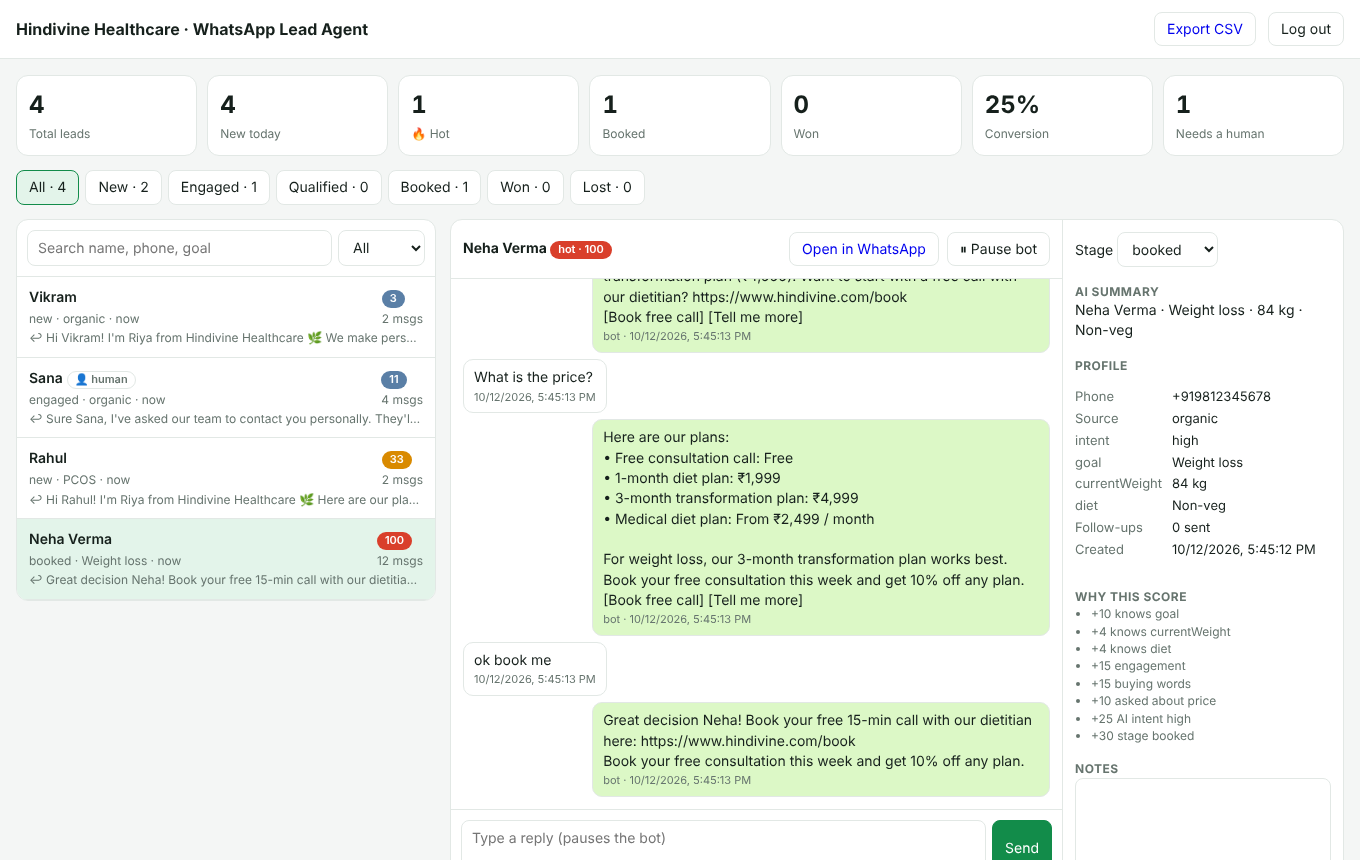
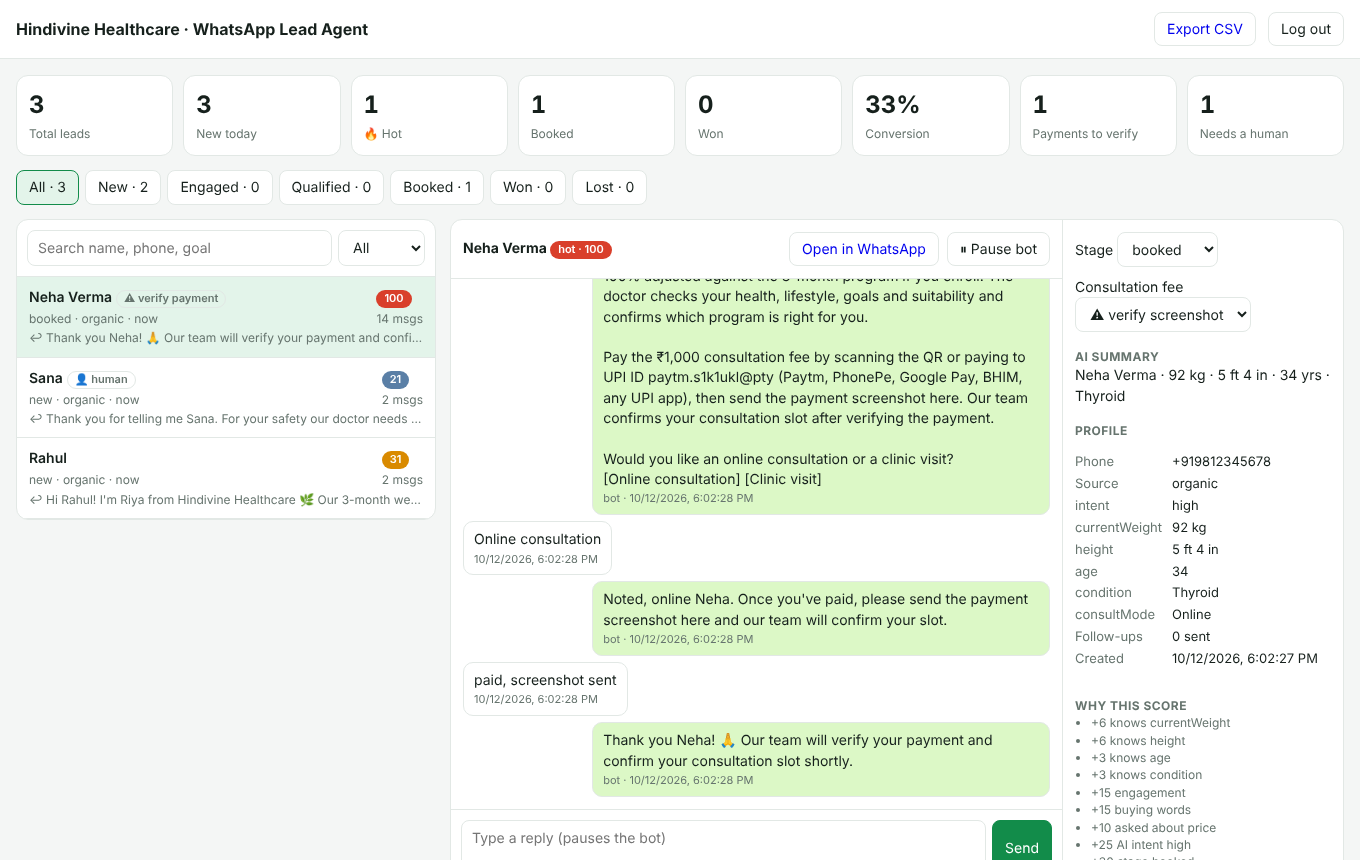
WhatsApp agent: ₹1,000 consultation fee via UPI, poster details
- business.json: Dr. Rajat Goel's profile, ₹1,000 consultation fee
  (100% adjusted against enrollment), online or clinic visit, full kit
  and program steps, FAQs, both phone numbers and email from the
  posters, UPI ID paytm.s1k1ukl@pty
- Booking now asks for the fee: sends the UPI details and the QR image
  (public/media/upi-qr.jpg via PUBLIC_URL, or PAYMENT_QR_URL) and asks
  online or clinic
- A payment screenshot or "paid" moves the lead to Booked and flags it
  for the team to verify; the bot never confirms payments itself
- Dashboard: payments-to-verify tile, payment status per lead

Claude-Session: https://claude.ai/code/session_01LaF9J2sp3sR2RWeyP2dXk7

diff --git a/whatsapp-agent/src/brain.js b/whatsapp-agent/src/brain.js
@@ -4,7 +4,7 @@
 // { reply, buttons[], profile{}, intent, action, handoffReason, summary }
 const Anthropic = require('@anthropic-ai/sdk');
 
-const PROFILE_FIELDS = ['name', 'goal', 'currentWeight', 'targetWeight', 'height', 'age', 'condition', 'medicines', 'preferredProgram', 'diet', 'startWhen', 'city', 'language'];
+const PROFILE_FIELDS = ['name', 'goal', 'currentWeight', 'targetWeight', 'height', 'age', 'gender', 'condition', 'medicines', 'preferredProgram', 'consultMode', 'diet', 'startWhen', 'city', 'language'];
 const ACTIONS = ['none', 'book_call', 'send_payment', 'handoff', 'mark_lost'];
 
 const OUTPUT_SCHEMA = {
@@ -37,8 +37,11 @@ function systemPrompt(biz) {
 About the business: ${biz.pitch}
 Phone: ${biz.phone || 'n/a'}
 Website / booking: ${biz.bookingLink}
-${biz.paymentLink ? `Payment link: ${biz.paymentLink}` : 'There is no payment link; the team shares payment details after the consultation.'}
-First step for every lead: ${biz.consultation || 'a consultation'}.
+${biz.email ? `Email: ${biz.email}\n` : ''}${biz.doctor ? `Doctor: ${biz.doctor.name}, ${biz.doctor.credentials}. Expertise: ${biz.doctor.expertise.join(', ')}. Trusted by ${biz.doctor.trust}.\n` : ''}First step for every lead: ${biz.consultation || 'a consultation'}.
+${biz.payment ? `How to pay the consultation fee: ${biz.payment.instructions} (The QR code image is sent automatically when you set action send_payment.)` : 'The team shares payment details after the consultation.'}
+${biz.clinic || ''}
+${biz.steps ? `How the program works: ${biz.steps.map((x, i) => `${i + 1}. ${x}`).join(' → ')}` : ''}
+${biz.whoCanBenefit ? `Who can benefit: ${biz.whoCanBenefit.join('; ')}.` : ''}
 Current offer: ${biz.offer || 'none'}
 
 Programs and prices (the only ones you may quote):
@@ -55,7 +58,7 @@ How to talk on WhatsApp:
 - Keep each message short: 1-3 sentences, at most one question. Use the lead's name once you know it. One emoji at most. Use a short list only when quoting the programs or what's included.
 - Answer their question first, then move one step forward. Learn naturally, one at a time: ${biz.qualifyingQuestions.join('; ')}.
 - You may explain all programs, prices and what's included, and say which one the lead is asking about. Do not pick a medicine for them: the doctor confirms the right program after the consultation.
-- When they show buying intent (asking how to join, pay or start), make it easy: give the phone number and booking link${biz.paymentLink ? ' or payment link' : ''} and set action accordingly.
+- When they show buying intent (asking how to join, book, pay or start), make it easy: explain the consultation fee and that it is fully adjusted against the program, ask online or clinic visit, give the UPI payment details and ask for the screenshot, and set action send_payment.
 - Handle objections with empathy and facts (price: break it down per day (price ÷ 90 days) and remind them it includes the medicine, doctor, dietitian and app, mention the offer; fear of injections: it's once a week with a small pen needle; trust: doctor-supervised with weekly monitoring).
 - Offer 2-3 quick-reply buttons when it helps them answer with one tap (for example "Book consultation", "What's included?", "Prices").
 ${biz.rules.map((r) => `- ${r}`).join('\n')}
@@ -63,7 +66,7 @@ ${biz.rules.map((r) => `- ${r}`).join('\n')}
 Fields:
 - profile: carry forward what the CRM already knows and add anything new from the conversation (preferredProgram = Ozempic, Wegovy or Mounjaro if they named one).
 - intent: high = wants to buy or book now; medium = interested, asking details or price; low = just browsing or hesitant.
-- action: book_call when you share the booking details and they want a consultation; send_payment when you send payment details; handoff when a doctor or human must take over (say so kindly in reply and give handoffReason); mark_lost when they clearly decline or ask not to be contacted; otherwise none.`;
+- action: send_payment when you give the consultation fee payment details; book_call when you share booking details without payment details; handoff when a doctor or human must take over (say so kindly in reply and give handoffReason); mark_lost when they clearly decline or ask not to be contacted; otherwise none.`;
 }
 
 // Turn stored messages into alternating user/assistant turns.
@@ -166,7 +169,7 @@ function createRuleBrain({ business }) {
   const first = (name) => (name ? ` ${name.split(' ')[0]}` : '');
   const programs = business.services.map((s) => `• ${s.name}: ${s.price}`).join('\n');
   const included = business.included.map((i) => `✓ ${i}`).join('\n');
-  const contact = `Call ${business.phone} or book at ${business.bookingLink}`;
+  const contact = `Call/WhatsApp ${business.phone} or visit ${business.bookingLink}`;
 
   return async function decide(lead) {
     const inbound = lead.messages.filter((m) => m.dir === 'in');
@@ -190,16 +193,36 @@ function createRuleBrain({ business }) {
     } else if (/\b(not interested|no thanks|don't message|dont message)\b/i.test(text)) {
       out.reply = `No problem${n}, thank you for your time. Message us anytime if you'd like help with weight loss.`;
       out.action = 'mark_lost';
-    } else if (/\b(book|join|start|pay|interested|ready|enrol|sign ?up|consult\w*|lena hai)\b/i.test(text)) {
-      out.reply = `Great${n}! The first step is ${business.consultation}.\n${contact}\n${business.offer || ''}`.trim();
+    } else if (business.consultationFee && /\b(consult\w* (fees?|charges?)|fees? for (the )?consult\w*|refund\w*)\b/i.test(text)) {
+      if (/refund/i.test(text)) {
+        out.reply = `Good question${n}. Our team will confirm that for you personally, they'll message you shortly 🙏`;
+        out.action = 'handoff';
+        out.handoffReason = 'Asked about refunds';
+      } else {
+        out.reply = `${hello}The consultation fee is ${business.consultationFee}, and it's 100% adjusted against the 3-month program if you enroll. Shall I share the payment details to book it?`;
+        out.buttons = ['Book consultation', 'Prices'];
+        out.intent = 'medium';
+      }
+    } else if (/\b(online|clinic|visit)\b/i.test(text) && lead.paymentStatus === 'requested') {
+      out.profile.consultMode = /clinic|visit/i.test(text) ? 'Clinic visit' : 'Online';
+      out.reply = `Noted, ${out.profile.consultMode.toLowerCase()}${n}. Once you've paid, please send the payment screenshot here and our team will confirm your slot.${out.profile.consultMode === 'Clinic visit' && business.clinic ? ` ${business.clinic}` : ''}`;
       out.intent = 'high';
-      out.action = 'book_call';
+    } else if (/\b(book|join|start|pay|interested|ready|enrol|sign ?up|consult\w*|lena hai)\b/i.test(text)) {
+      if (business.payment) {
+        out.reply = `Great${n}! The first step is ${business.consultation}.\n\n${business.payment.instructions}\n\nWould you like an online consultation or a clinic visit?`;
+        out.buttons = ['Online consultation', 'Clinic visit'];
+        out.action = 'send_payment';
+      } else {
+        out.reply = `Great${n}! The first step is ${business.consultation}.\n${contact}\n${business.offer || ''}`.trim();
+        out.action = 'book_call';
+      }
+      out.intent = 'high';
     } else if (/\b(include\w*|kit|what do i get|kya milega|details?)\b/i.test(text)) {
       out.reply = `${hello}Every 3-month program includes:\n${included}\n\nWant to book your doctor consultation?`;
       out.buttons = ['Book consultation', 'Prices'];
       out.intent = 'medium';
     } else if (/\b(price|cost|fee|fees|charges?|kitna|kitne|plans?|programs?|package|ozempic|wegovy|mounjaro|injection)\b/i.test(text)) {
-      out.reply = `${hello}Our 3-month weight loss programs:\n${programs}\n\nAll include the weekly injection, doctor and dietitian support, safety monitoring, the app and the kit. Our doctor confirms which one suits you after a health check.\n${business.offer || ''}`.trim();
+      out.reply = `${hello}Our 3-month weight loss programs:\n${programs}\n\nAll include the weekly injection, doctor and dietitian support, safety monitoring, the app and the kit. Our doctor confirms which one suits you after a health check.${business.consultationFee ? ` Consultation fee ${business.consultationFee}, fully adjusted against the program.` : ''}\n${business.offer || ''}`.trim();
       out.buttons = ['Book consultation', "What's included?"];
       out.intent = 'medium';
     } else if (!profile.currentWeight || !profile.height) {

diff --git a/whatsapp-agent/test/agent.test.js b/whatsapp-agent/test/agent.test.js
@@ -20,15 +20,16 @@ function fakeWhatsApp() {
     sendText: async (to, text) => sent.push({ to, type: 'text', text }),
     sendButtons: async (to, text, buttons) => sent.push({ to, type: 'buttons', text, buttons }),
     sendTemplate: async (to, name, lang, params) => sent.push({ to, type: 'template', name, params }),
+    sendImage: async (to, link, caption) => sent.push({ to, type: 'image', link, text: caption }),
     markRead: async () => {},
   };
 }
 
-function setup({ brain, alertNumbers = ['919999999999'], template = { name: 'lead_followup', lang: 'en' } } = {}) {
+function setup({ brain, alertNumbers = ['919999999999'], template = { name: 'lead_followup', lang: 'en' }, paymentQrUrl = 'https://example.com/media/upi-qr.jpg' } = {}) {
   const store = createStore(null);
   const wa = fakeWhatsApp();
   const rules = createRuleBrain({ business });
-  const agent = createAgent({ store, wa, brain: brain || rules, fallbackBrain: rules, business, alertNumbers, template, log: quiet });
+  const agent = createAgent({ store, wa, brain: brain || rules, fallbackBrain: rules, business, alertNumbers, template, paymentQrUrl, log: quiet });
   let n = 0;
   const say = (text, extra = {}) => agent.handleInbound({ id: `m${++n}`, from: '919800000001', name: 'Priya Sharma', type: 'text', text, ...extra });
   return { store, wa, agent, say };
@@ -88,13 +89,34 @@ test('rule-based flow qualifies a lead, quotes the 3 programs and books a consul
   );
   assert.equal(lead.stage, 'qualified');
 
+  await say('consultation fees kitna hai?');
+  assert.match(toLead(wa).at(-1).text, /₹1,000.*100% adjusted/);
+
   await say('ok I want to book');
   lead = store.getLead('919800000001');
+  assert.equal(lead.paymentStatus, 'requested');
+  const [instructions, qr] = toLead(wa).slice(-2);
+  assert.ok(instructions.text.includes(business.payment.upiId));
+  assert.match(instructions.text, /₹1,000/);
+  assert.deepEqual(instructions.buttons, ['Online consultation', 'Clinic visit']);
+  assert.equal(qr.type, 'image');
+  assert.equal(qr.link, 'https://example.com/media/upi-qr.jpg');
+  assert.ok(wa.sent.some((m) => m.to === '919999999999' && /Payment details sent/.test(m.text)));
+
+  await say('Online consultation');
+  lead = store.getLead('919800000001');
+  assert.equal(lead.profile.consultMode, 'Online');
+  assert.equal(lead.paymentStatus, 'requested', 'mode answer does not restart payment');
+  assert.match(toLead(wa).at(-1).text, /screenshot/);
+
+  await say('[image]', { type: 'image' });
+  lead = store.getLead('919800000001');
+  assert.equal(lead.paymentStatus, 'to_verify');
   assert.equal(lead.stage, 'booked');
-  assert.ok(toLead(wa).at(-1).text.includes(business.phone));
-  assert.ok(toLead(wa).at(-1).text.includes(business.bookingLink));
+  assert.match(toLead(wa).at(-1).text, /verify/);
+  assert.doesNotMatch(toLead(wa).at(-1).text, /confirmed/i, 'bot never confirms payment itself');
   assert.equal(lead.temperature, 'hot');
-  assert.ok(wa.sent.some((m) => m.to === '919999999999' && /Priya/.test(m.text)), 'team alert sent');
+  assert.ok(wa.sent.some((m) => m.to === '919999999999' && /Payment to verify/.test(m.text) && /Priya/.test(m.text)));
 });
 
 test('medical red flags go to the doctor even when Claude would keep selling', async () => {
@@ -278,6 +300,12 @@ test('HTTP: webhook verification, signature check and protected API', async (t) 
   assert.equal(lead.stage, 'won');
   assert.equal(lead.notes, 'paid');
   assert.notEqual(lead.score, 999, 'score is not writable');
+  res = await fetch(`${base}/api/leads/911`, { method: 'PATCH', headers: auth, body: JSON.stringify({ paymentStatus: 'paid' }) });
+  assert.equal((await res.json()).paymentStatus, 'paid');
+  res = await fetch(`${base}/api/leads/911`, { method: 'PATCH', headers: auth, body: JSON.stringify({ paymentStatus: 'free' }) });
+  assert.equal(res.status, 400);
+  res = await fetch(`${base}/media/..%2Fserver.js`);
+  assert.equal(res.status, 404);
   res = await fetch(`${base}/api/leads/911`, { method: 'PATCH', headers: auth, body: JSON.stringify({ stage: 'bogus' }) });
   assert.equal(res.status, 400);
 

diff --git a/whatsapp-agent/src/agent.js b/whatsapp-agent/src/agent.js
@@ -6,6 +6,7 @@ const { redFlag } = require('./brain');
 
 const OPT_OUT = /^\s*(stop|unsubscribe|band karo|cancel)\s*$/i;
 const OPT_IN = /^\s*(start|subscribe)\s*$/i;
+const PAID = /\b(paid|payment (done|sent|made|kar di|ho gaya|complete\w*)|done payment|transferred|sent (the )?(money|amount)|screenshot)\b/i;
 const DAY = 86400000;
 const HOUR = 3600000;
 
@@ -34,7 +35,7 @@ function inBusinessHours(biz, now = new Date()) {
   return h.days.includes(day) && hm >= h.start && hm < h.end;
 }
 
-function createAgent({ store, wa, brain, fallbackBrain, business, alertNumbers = [], template = {}, log = console }) {
+function createAgent({ store, wa, brain, fallbackBrain, business, alertNumbers = [], template = {}, paymentQrUrl = '', log = console }) {
   const queues = new Map(); // phone → promise chain, so one lead is handled in order
 
   function enqueue(phone, fn) {
@@ -99,6 +100,17 @@ function createAgent({ store, wa, brain, fallbackBrain, business, alertNumbers =
       store.updateLead(msg.from, { optedOut: false, botPaused: false, stage: 'engaged' });
     }
 
+    // Payment proof: never confirm it ourselves, hand it to the team to verify.
+    if (lead.paymentStatus === 'requested' && (['image', 'document'].includes(msg.type) || PAID.test(msg.text))) {
+      store.updateLead(msg.from, { paymentStatus: 'to_verify', stage: 'booked' });
+      if (!lead.botPaused) {
+        await send(lead, `Thank you${first(lead)}! 🙏 Our team will verify your payment and confirm your consultation slot shortly.`);
+      }
+      rescore(lead);
+      await alertTeam(store.getLead(msg.from), 'Payment to verify');
+      return store.save();
+    }
+
     if (lead.botPaused || lead.optedOut) {
       // A human owns this chat; just keep the CRM up to date.
       if (rescore(lead)) await alertTeam(lead, 'Hot lead (team chat)');
@@ -117,16 +129,22 @@ function createAgent({ store, wa, brain, fallbackBrain, business, alertNumbers =
       if (decision.profile.name && !lead.name) patch.name = decision.profile.name;
       if (decision.summary) patch.summary = decision.summary;
       if (decision.action === 'book_call') patch.stage = 'booked';
+      if (decision.action === 'send_payment' && !['to_verify', 'paid'].includes(lead.paymentStatus)) patch.paymentStatus = 'requested';
       if (decision.action === 'mark_lost') patch.stage = 'lost';
       if (decision.action === 'handoff') Object.assign(patch, { botPaused: true, handoffReason: decision.handoffReason || 'Requested by AI' });
       patch.profile.intent = decision.intent;
       store.updateLead(msg.from, patch);
       await send(lead, decision.reply, decision.buttons);
+      if (decision.action === 'send_payment' && paymentQrUrl && business.payment) {
+        await wa.sendImage(lead.phone, paymentQrUrl, `Scan & pay ${business.consultationFee || ''} · UPI ID ${business.payment.upiId}`.replace('  ', ' '));
+        store.addMessage(lead.phone, { dir: 'out', by: 'bot', text: `[UPI QR code: ${business.payment.upiId}]` });
+      }
     }
 
     const becameHot = rescore(lead);
     if (decision?.action === 'handoff') await alertTeam(store.getLead(msg.from), `Needs a human (${store.getLead(msg.from).handoffReason})`);
     else if (decision?.action === 'book_call') await alertTeam(lead, 'Consultation link sent');
+    else if (decision?.action === 'send_payment') await alertTeam(lead, 'Payment details sent');
     else if (becameHot) await alertTeam(lead, 'Hot lead');
     return store.save();
   }

diff --git a/whatsapp-agent/public/dashboard.html b/whatsapp-agent/public/dashboard.html
@@ -132,7 +132,7 @@ async function loadStats() {
   $('title').textContent = `${s.business} · WhatsApp Lead Agent`;
   $('tiles').innerHTML = [
     ['Total leads', s.total], ['New today', s.newToday], ['🔥 Hot', s.byTemp.hot || 0],
-    ['Booked', s.byStage.booked], ['Won', s.byStage.won], ['Conversion', `${s.conversionRate}%`], ['Needs a human', s.needsHuman],
+    ['Booked', s.byStage.booked], ['Won', s.byStage.won], ['Conversion', `${s.conversionRate}%`], ['Payments to verify', s.paymentsToVerify || 0], ['Needs a human', s.needsHuman],
   ].map(([k, v]) => `<div class="tile"><b>${esc(v)}</b><span>${esc(k)}</span></div>`).join('');
   $('pipeline').innerHTML = [['', 'All', s.total], ...STAGES.map((st) => [st, st[0].toUpperCase() + st.slice(1), s.byStage[st]])]
     .map(([st, label, n]) => `<button data-stage="${st}" class="${state.stage === st ? 'on' : ''}">${label} · ${n}</button>`).join('');
@@ -144,7 +144,7 @@ async function loadLeads() {
   state.leads = await api(`/api/leads?${p}`);
   $('list').innerHTML = state.leads.length ? state.leads.map((l) => `
     <div class="lead ${state.selected === l.phone ? 'sel' : ''}" data-phone="${esc(l.phone)}">
-      <div class="name">${esc(l.name || '+' + l.phone)}${l.botPaused && !l.optedOut ? '<span class="tag">👤 human</span>' : ''}${l.optedOut ? '<span class="tag">opted out</span>' : ''}</div>
+      <div class="name">${esc(l.name || '+' + l.phone)}${l.botPaused && !l.optedOut ? '<span class="tag">👤 human</span>' : ''}${l.optedOut ? '<span class="tag">opted out</span>' : ''}${l.paymentStatus === 'to_verify' ? '<span class="tag">⚠ verify payment</span>' : ''}${l.paymentStatus === 'paid' ? '<span class="tag">✓ paid</span>' : ''}</div>
       <div><span class="pill ${l.temperature}">${l.score}</span></div>
       <div class="meta">${esc(l.stage)} · ${esc(l.profile?.goal || l.source)} · ${ago(l.updatedAt)}</div>
       <div class="meta">${l.messageCount} msgs</div>
@@ -175,6 +175,7 @@ async function openLead(phone) {
       </div>
       <aside class="side">
         <label>Stage <select id="stage">${STAGES.map((s) => `<option ${s === l.stage ? 'selected' : ''}>${s}</option>`).join('')}</select></label>
+        <label>Consultation fee <select id="payment">${[['', 'not requested'], ['requested', 'requested'], ['to_verify', '⚠ verify screenshot'], ['paid', '✓ paid']].map(([v, t]) => `<option value="${v}" ${v === (l.paymentStatus || '') ? 'selected' : ''}>${t}</option>`).join('')}</select></label>
         ${l.summary ? `<div><h3>AI summary</h3>${esc(l.summary)}</div>` : ''}
         <div><h3>Profile</h3><dl class="kv">
           <dt>Phone</dt><dd>+${esc(l.phone)}</dd>
@@ -191,6 +192,7 @@ async function openLead(phone) {
   const patch = async (body) => { await api(`/api/leads/${encodeURIComponent(phone)}`, { method: 'PATCH', body: JSON.stringify(body) }); refresh(); };
   $('toggleBot').onclick = () => patch({ botPaused: !l.botPaused });
   $('stage').onchange = (e) => patch({ stage: e.target.value });
+  $('payment').onchange = (e) => patch({ paymentStatus: e.target.value });
   $('saveNotes').onclick = () => patch({ notes: $('notes').value });
   $('sendBtn').onclick = async () => {
     const text = $('reply').value.trim();

diff --git a/whatsapp-agent/src/server.js b/whatsapp-agent/src/server.js
@@ -65,6 +65,14 @@ function createApp({ env = process.env, business, store, wa, agent }) {
         return;
       }
 
+      // Public media (the UPI QR image WhatsApp downloads when we send it).
+      if (parts[0] === 'media' && parts.length === 2 && /^[\w.-]+\.(jpe?g|png|webp)$/i.test(parts[1])) {
+        const file = path.join(__dirname, '..', 'public', 'media', parts[1]);
+        if (!fs.existsSync(file)) return send(res, 404, { error: 'not found' });
+        res.writeHead(200, { 'Content-Type': `image/${parts[1].split('.').pop().replace('jpg', 'jpeg')}`, 'Cache-Control': 'public, max-age=3600' });
+        return res.end(fs.readFileSync(file));
+      }
+
       if (url.pathname === '/' || url.pathname === '/dashboard') return send(res, 200, dashboardHtml, 'text/html; charset=utf-8');
 
       if (parts[0] === 'api') {
@@ -103,9 +111,10 @@ function createApp({ env = process.env, business, store, wa, agent }) {
           }
           if (!parts[3] && req.method === 'PATCH') {
             const body = JSON.parse((await readBody(req)).toString() || '{}');
-            const allowed = ['name', 'stage', 'notes', 'tags', 'botPaused'];
+            const allowed = ['name', 'stage', 'notes', 'tags', 'botPaused', 'paymentStatus'];
             const patch = Object.fromEntries(Object.entries(body).filter(([k]) => allowed.includes(k)));
             if (patch.botPaused === false) patch.handoffReason = '';
+            if ('paymentStatus' in patch && !['', 'requested', 'to_verify', 'paid'].includes(patch.paymentStatus)) return send(res, 400, { error: 'bad paymentStatus' });
             store.updateLead(phone, patch);
             agent.rescore(store.getLead(phone));
             await store.save();
@@ -120,6 +129,18 @@ function createApp({ env = process.env, business, store, wa, agent }) {
       if (!res.headersSent) send(res, e.message.startsWith('unknown stage') ? 400 : 500, { error: e.message });
     }
   };
+}
+
+// Public URL of the UPI QR image: PAYMENT_QR_URL, or PUBLIC_URL + /media/<qrImage> when that file exists.
+function paymentQrUrl(env, business) {
+  if (env.PAYMENT_QR_URL) return env.PAYMENT_QR_URL;
+  const file = business.payment && business.payment.qrImage;
+  if (!file || !env.PUBLIC_URL) return '';
+  if (!fs.existsSync(path.join(__dirname, '..', 'public', 'media', file))) {
+    console.warn(`UPI QR image public/media/${file} not found: payment messages will carry the UPI ID only.`);
+    return '';
+  }
+  return `${env.PUBLIC_URL.replace(/\/$/, '')}/media/${file}`;
 }
 
 function main() {
@@ -140,6 +161,7 @@ function main() {
     business,
     alertNumbers: (env.ALERT_NUMBERS || '').split(',').map((s) => s.replace(/\D/g, '')).filter(Boolean),
     template: { name: env.FOLLOWUP_TEMPLATE_NAME, lang: env.FOLLOWUP_TEMPLATE_LANG || 'en' },
+    paymentQrUrl: paymentQrUrl(env, business),
   });
 
   if (!env.DASHBOARD_TOKEN) console.warn('DASHBOARD_TOKEN is not set: the dashboard API is locked.');

diff --git a/whatsapp-agent/src/store.js b/whatsapp-agent/src/store.js
@@ -51,6 +51,7 @@ function createStore(file) {
         botPaused: false,
         optedOut: false,
         handoffReason: '',
+        paymentStatus: '',
         followupsSent: 0,
         lastInboundAt: null,
         lastOutboundAt: null,
@@ -111,6 +112,7 @@ function createStore(file) {
       total: leads.length,
       newToday: leads.filter((l) => l.createdAt.startsWith(today)).length,
       needsHuman: leads.filter((l) => l.botPaused && !l.optedOut).length,
+      paymentsToVerify: leads.filter((l) => l.paymentStatus === 'to_verify').length,
       conversionRate: leads.length ? Math.round((converted / leads.length) * 100) : 0,
       byStage,
       byTemp,

diff --git a/whatsapp-agent/src/scoring.js b/whatsapp-agent/src/scoring.js
@@ -42,6 +42,7 @@ function scoreLead(lead, now = Date.now()) {
   add(INTENT_POINTS[lead.profile?.intent] || 0, `AI intent ${lead.profile?.intent}`);
   add(STAGE_POINTS[lead.stage] || 0, `stage ${lead.stage}`);
   if (lead.source && lead.source !== 'organic') add(5, 'came from an ad');
+  add({ requested: 10, to_verify: 20, paid: 30 }[lead.paymentStatus] || 0, `payment ${lead.paymentStatus}`);
 
   if (lead.lastInboundAt) {
     const days = (now - Date.parse(lead.lastInboundAt)) / 86400000;

diff --git a/whatsapp-agent/src/whatsapp.js b/whatsapp-agent/src/whatsapp.js
@@ -41,6 +41,9 @@ function createWhatsApp({ token, phoneNumberId, apiVersion = 'v21.0', fetchImpl 
         },
       }),
 
+    // Image by public URL (used for the UPI QR code).
+    sendImage: (to, link, caption = '') => call({ to, type: 'image', image: { link, ...(caption ? { caption } : {}) } }),
+
     // Templates are the only messages allowed outside the 24-hour customer-service window.
     sendTemplate: (to, name, lang = 'en', bodyParams = []) =>
       call({

diff --git a/whatsapp-agent/README.md b/whatsapp-agent/README.md
@@ -1,6 +1,6 @@
 # WhatsApp Lead Agent
 
-An all-in-one WhatsApp sales agent for **Hindivine Healthcare's 3-month weight loss programs** (Ozempic ₹19,999 · Wegovy ₹19,999 · Mounjaro ₹29,999). It answers every lead instantly, checks eligibility details, quotes the programs, books the doctor consultation, follows up with leads who go quiet, and alerts the team when a lead is hot. Everything is tracked in a small CRM dashboard.
+An all-in-one WhatsApp sales agent for **Hindivine Healthcare's 3-month weight loss programs** (Ozempic ₹19,999 · Wegovy ₹19,999 · Mounjaro ₹29,999). Led by Dr. Rajat Goel. It answers every lead instantly, checks eligibility details, quotes the programs, collects the ₹1,000 consultation fee by UPI (fully adjusted against enrollment), follows up with leads who go quiet, and alerts the team when a lead is hot. Everything is tracked in a small CRM dashboard.
 
 ![Dashboard](docs/dashboard.png)
 
@@ -11,6 +11,7 @@ An all-in-one WhatsApp sales agent for **Hindivine Healthcare's 3-month weight l
 | **Instant auto-reply, 24×7** | Every WhatsApp message gets a reply in seconds, in English, Hindi or Hinglish. Claude writes the replies; without an API key a built-in rule-based sales flow runs instead (and takes over automatically if Claude is ever unavailable). |
 | **Qualifies like a salesperson** | Asks one question at a time: weight and height, age, conditions and medicines, preferred program, start date. Uses quick-reply buttons so leads answer with one tap. |
 | **Converts** | Quotes the three programs and what the kit includes from `config/business.json`, handles price, injection-fear and trust objections, mentions the offer, and sends the phone number and booking link as soon as the lead shows buying intent. It never invents prices or promises results. |
+| **Consultation fee by UPI** | When a lead wants to book, the agent explains the ₹1,000 fee (100% adjusted against the program), sends the UPI ID and the QR code image, and asks online consultation or clinic visit. When the lead sends a payment screenshot or says they've paid, the lead moves to *Booked*, is flagged **verify payment**, and the team is alerted. The bot never confirms a payment or a slot itself; the team marks the payment as paid in the dashboard. |
 | **Medical safety** | These are prescription medicines, so the agent never picks a medicine, suggests a dose or says it is safe for someone: the doctor decides after the consultation. Pregnancy or breastfeeding, under 18, type 1 diabetes, pancreatitis, thyroid cancer/MEN2, eating disorders and reported side effects are caught by a fixed check (not the AI), which hands the chat to the doctor and alerts the team. |
 | **Lead capture & source tracking** | Every number becomes a lead with name, profile, AI summary and full chat. Click-to-WhatsApp ad clicks are tagged with the ad headline. |
 | **Lead scoring (0–100)** | Hot / warm / cold, from profile completeness, buying and price words, urgency, AI-judged intent, stage, ad source and silence. The dashboard shows why each lead got its score. |
@@ -58,7 +59,11 @@ Set `ANTHROPIC_API_KEY`. The default model is `claude-opus-5-5` at `CLAUDE_EFFOR
 
 Edit `config/business.json`: agent name, phone, programs and prices, what's included, offer, FAQs, booking/payment links, business hours, languages and rules. Both Claude and the rule-based flow read it, so you never have to touch the code to change what the agent says.
 
-### 5. Team alerts
+### 5. UPI QR code
+
+The UPI ID is in `config/business.json` (`payment.upiId`). Save your Paytm QR image as `public/media/upi-qr.jpg` and set `PUBLIC_URL` to the server's HTTPS address, so WhatsApp can download it (or set `PAYMENT_QR_URL` to an image hosted elsewhere). Without either, payment messages carry the UPI ID only.
+
+### 6. Team alerts
 
 Put team WhatsApp numbers (with country code) in `ALERT_NUMBERS`. WhatsApp only delivers free-form messages to numbers that have messaged your business number in the last 24 hours, so each team member should message the business number once a day (or switch alerts to a template).
 
@@ -71,7 +76,7 @@ Open `/dashboard` and enter `DASHBOARD_TOKEN`. The same token works as a Bearer 
 | GET | `/api/stats` | Totals, conversion rate, counts by stage, temperature and source |
 | GET | `/api/leads?q=&stage=&temperature=` | Lead list (without full chats) |
 | GET | `/api/leads/:phone` | One lead with its full chat |
-| PATCH | `/api/leads/:phone` | Update `name`, `stage`, `notes`, `tags`, `botPaused` |
+| PATCH | `/api/leads/:phone` | Update `name`, `stage`, `notes`, `tags`, `botPaused`, `paymentStatus` (`requested`, `to_verify`, `paid`) |
 | POST | `/api/leads/:phone/send` | Send `{ "text": "..." }` as the team (pauses the bot unless `"pauseBot": false`) |
 | GET | `/api/export.csv` | All leads as CSV |
 
